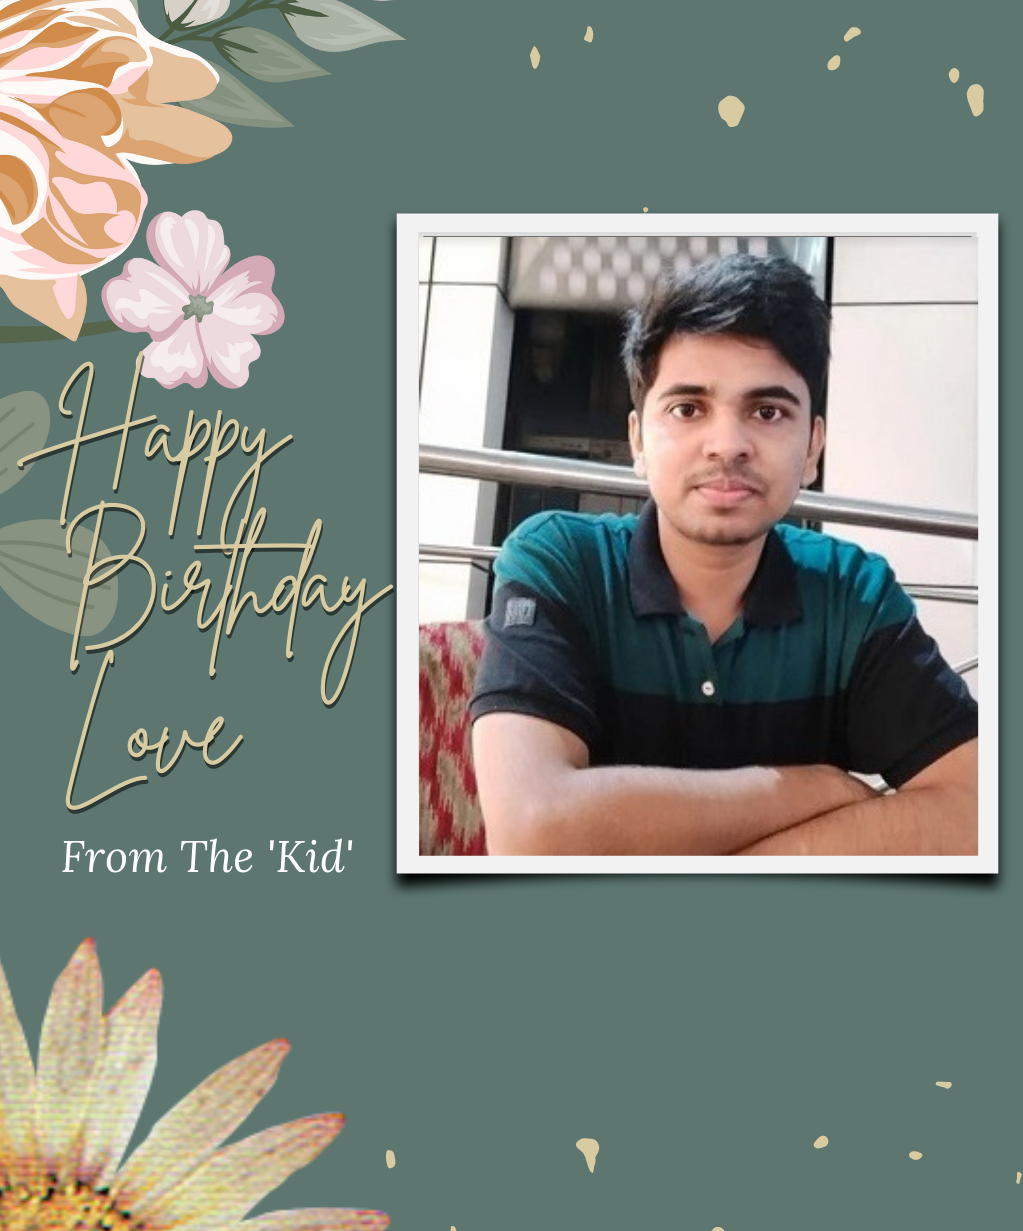
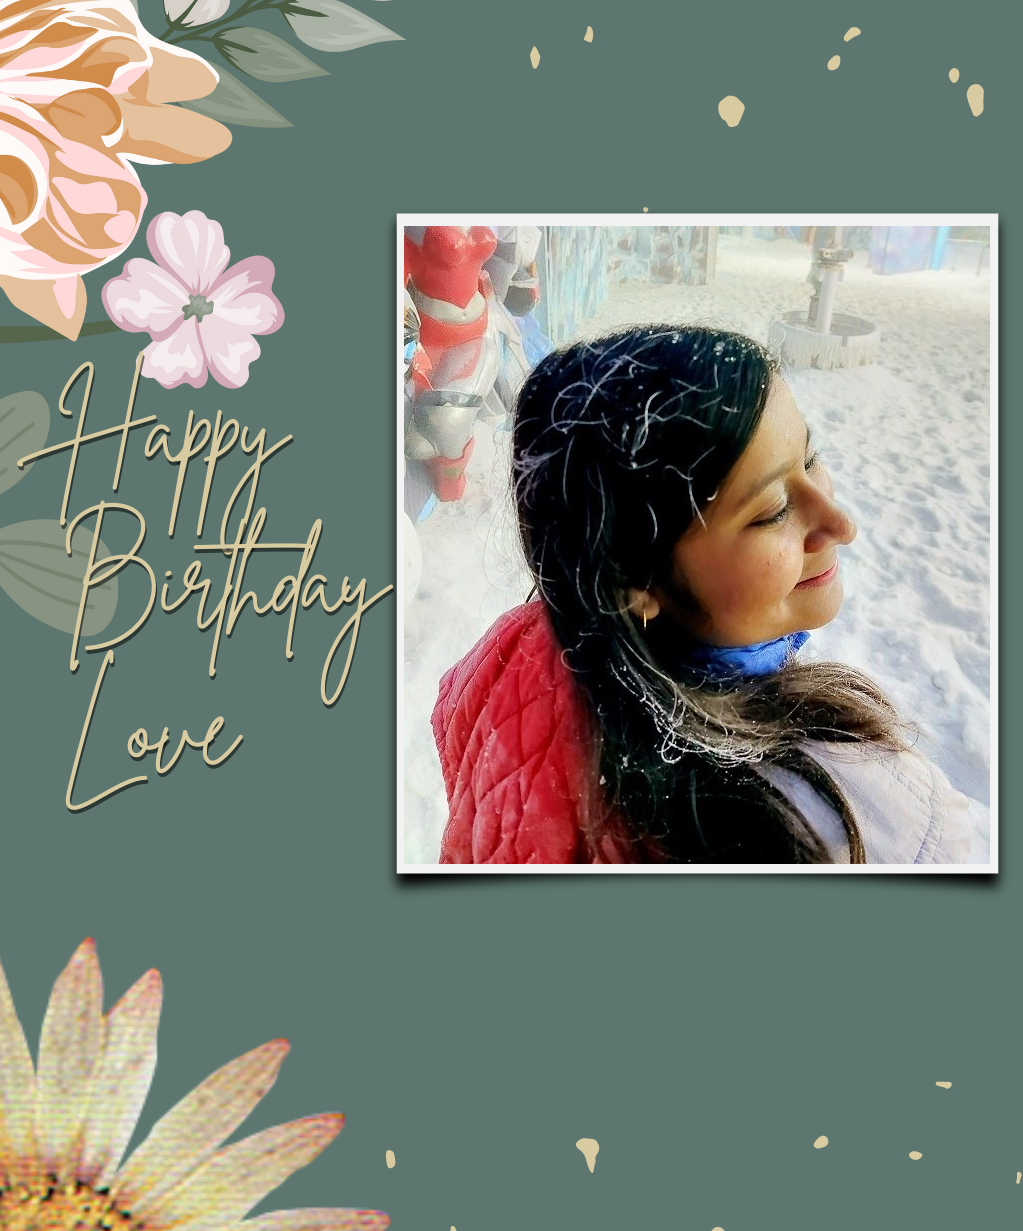
update

Changed region(s): [[0.3939, 0.1852, 0.9697, 0.71], [0.0606, 0.6791, 0.2424, 0.71], [0.2727, 0.6791, 0.3333, 0.71]]

diff --git a/src/App.js b/src/App.js
@@ -191,7 +191,7 @@ document.ontouchstart = evt => birth.onClick(evt)
     //end
     // console.log(birthday)
     // console.log(mm)
-    const countDown = new Date(2023, 7, 16, 0, 0, 0)
+    const countDown = new Date(2023, 8, 26, 0, 0, 0)
     // console.log(new Date().getMonth()),
      const x = setInterval(function() {    
 
@@ -206,7 +206,7 @@ document.ontouchstart = evt => birth.onClick(evt)
 
       //do something later when date is reached
       if (distance < 0) {
-        // document.getElementById("headline").innerText = "Happy Birthday, Radhika 💗";
+        // document.getElementById("headline").innerText = "Happy Birthday,💗";
         document.getElementById("countdown").style.display = "none";
         document.getElementById("headline").style.display = "none";
         document.getElementById("content").style.display = "block";
@@ -238,7 +238,7 @@ document.ontouchstart = evt => birth.onClick(evt)
   return (
     <div className="container">
       <canvas id="birthday"></canvas>
-      <h1 id="headline">Radhika, My Love</h1>
+      <h1 id="headline">ZAYA, My Love</h1>
       <div id="countdown">
         <ul>
           <li><span id="days"></span>days</li>
@@ -252,7 +252,7 @@ document.ontouchstart = evt => birth.onClick(evt)
         <img className="images" src="birthday-2.png" height="200px"></img>
         <div class="heart heart-bg"></div>
         <div class="heart heart-main" onClick={clickHere}>
-          <img src="https://see.fontimg.com/api/renderfont4/9Y5Xy/eyJyIjoiZnMiLCJoIjo4MSwidyI6MTI1MCwiZnMiOjY1LCJmZ2MiOiIjRkZGRUZFIiwiYmdjIjoiI0ZGRkZGRiIsInQiOjF9/UmFkaGlrYQ/loftygoals-regular.png" width="120px"></img>
+          <img src="https://see.fontimg.com/api/renderfont4/RpwrW/eyJyIjoiZnMiLCJoIjo3MSwidyI6MTI1MCwiZnMiOjU3LCJmZ2MiOiIjRkZGNUY1IiwiYmdjIjoiI0ZGRkZGRiIsInQiOjF9/WmF5YQ/bisatta.png" width="120px"></img>
         </div>
         {/* <span>🥳</span>
         <span>🎉</span>
@@ -268,19 +268,17 @@ document.ontouchstart = evt => birth.onClick(evt)
         <div className="details">
           {/* <h4 className="color1">You're not a Fossil! (YET)</h4>
           <h4 className="color2 margin">(HAPPY BIRTHDAY)</h4> */}
-          <p>Dear Radhika♥,</p>
+          <p>Dear Zaya♥,</p>
           <br></br>
           <p>Happiest Birthday to you. I wish I could spent the best day on earth with you in person, holding your </p>
-          <p>hands but I think I still need to wait for that day.</p>
-          <p>My love, I wish you a very healthy and happy and prosperous life. A life I will do anything to be part of. </p>
-          <p>hate the music I’m into, you</p>
-          <p>Three months have passed and it feels that we have known each other for years</p>
-          <p>Babe, I love you more than anything in this world. I dont know what the future lies for us but I'm sure of one thing that I will always keep you happy and safe at the cost of my life. Just be with me, Love. Pleae never leave me. I wont be able to live without you.</p>
+          <p>hands. I wish you a very healthy and happy and prosperous life. A life I will do anything to be part of. </p>
+          <p>I know things haven't been good for the past couple of months. But I am hopeful it will get better eventually.</p>
+          <p>Till then,keep calm and stay strong and take care of </p>
+          <p>yourself. I dont know what the future hold for us but I'm sure it will be beautiful. </p>
           <p>I want you for always...days, years, eternities.</p>
-          <p>Just grow old along with me babe! The best is yet to be </p>
           <br></br>
           <p className="text-right">Love you always!</p>
-          <p className="text-right">♥Danish</p>
+          <p className="text-right">♥♥♥♥♥♥♥</p>
         </div>
       </div>
     </div>

diff --git a/src/index.css b/src/index.css
@@ -30,7 +30,7 @@ html, body {
 
 body {
   align-items: center;
-  background-color: #ffd54f;
+  background-color: #000000;
   display: flex;
   font-family: -apple-system, 
     BlinkMacSystemFont, 
@@ -46,7 +46,7 @@ body {
 
 
 .container {
-  color: #333;
+  color: #ffffff;
   margin: 0 auto;
   text-align: center;
   align-items: center;
@@ -226,7 +226,7 @@ h4 {
 	top: 0;
 	left: 0;
 	box-sizing: border-box;
-	padding: 0 0 0 10px;
+	padding: 60 0 0 10px;
 	z-index: -1;
 	margin-top: 40px;
   /* display: flex; */
@@ -344,5 +344,5 @@ h4 {
 
 .heart img {
   padding-top: 30px;
-  padding-left: 30px;
+  padding-left: 50px;
 }
